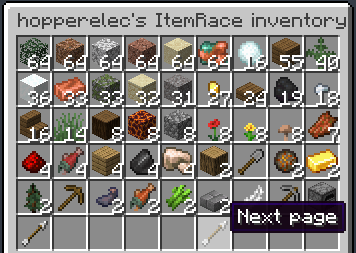
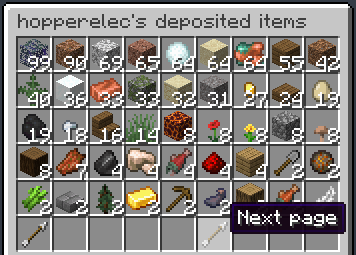
Added more information about auto-depositing to the README Updated screenshots in the README

diff --git a/README.md b/README.md
@@ -15,8 +15,13 @@ Players can also deposit items directly into their ItemRace inventory using:
 - `/itemrace deposit inventory`: deposit all items in their inventory, regardless of type
 - `/itemrace deposit (amount)`: deposit `amount` of the type of item in their hand from their inventory
 - `/itemrace deposit (amount) (item)`: deposit `amount` of `item` from their inventory
+
+Players can also create a list of items which get automatically deposited as soon as they enter their own inventory
 - `/itemrace autodeposit`: opens a GUI to toggle which items to auto-deposit
-- `/itemrace autodeposit (item)`: toggles whether to auto-deposit `item`
+  
+  ![Auto-deposit GUI - Double Chest UI with title "Auto-deposit items", containing many items with some of them enchanted, and one button at the bottom](screenshots/auto-deposit-gui.webp)
+- `/itemrace autodeposit add (item)`: starts auto-depositing `item`
+- `/itemrace autodeposit remove (item)`: stops auto-depositing `item`
 
 Players are scored based on the items currently in their ItemRace inventory. Players will gain one point each time the amount of a type of item they have doubles. That is, they will get a point for their 1st, 2nd, 4th, 8th, 16th, 32nd, 64th, 128th... item of each type, with no limit. For example, if a player deposits 128 dirt and 4 cobblestone, they will earn 11 points (8 points for dirt and 3 points for cobblestone).
 
@@ -30,13 +35,11 @@ or using the sidebar which can be toggled using `/itemrace togglescoreboard`.
 
 Players can view each other's ItemRace inventories using `/itemrace inventory`, which will open up a paginated GUI listing deposited items.
 
-<!-- TODO: Update screenshot -->
-![Inventory GUI - Double chest with title "hopperelec's ItemRace inventory" and with two buttons on the bottom, one named "Next page"](screenshots/deposited-items-gui.webp)
+![Inventory GUI - Double chest with title "hopperelec's deposited items" and with two buttons on the bottom, one named "Next page"](screenshots/deposited-items-gui.webp)
 
 From the deposited items GUI, players can also access a list of other players for whom to view the deposited items.
 
-<!-- TODO: Update screenshot -->
-![Players GUI - Double chest with title "ItemRace inventories" containing player skulls, one named "View Phantom_RX's ItemRace inventory"](screenshots/players-gui.webp)
+![Players GUI - Double chest with title "ItemRace inventories" containing player skulls, one named "View Phantom_RX's deposited items"](screenshots/players-gui.webp)
 
 
 ## Point award modes
